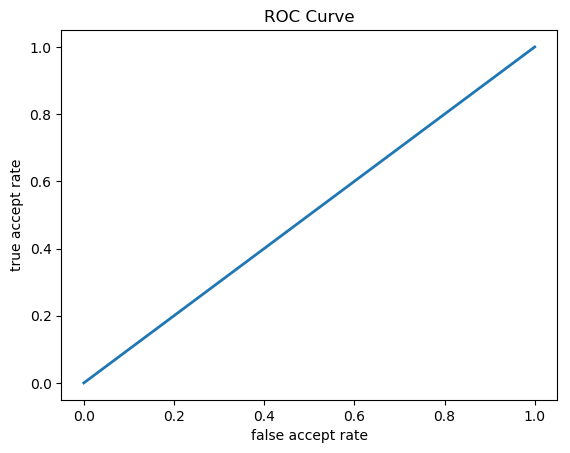
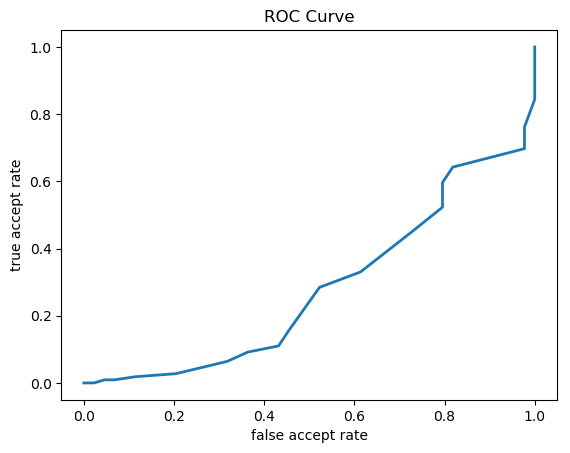
It works, had to make lots of changes though..

diff --git a/main.py b/main.py
@@ -5,7 +5,6 @@ import os
 import sys
 import numpy as np
 import pandas as pd
-import matplotlib.pyplot as plt
 from sklearn.model_selection import KFold
 from sklearn.preprocessing import MinMaxScaler
 from sklearn.neighbors import KNeighborsClassifier
@@ -13,7 +12,7 @@ from performance import perf_main
 
 ## Import the 5 feature selection algorithms
 import varience_threshold as vt
-import pca_features as pca
+import tree_selection_features as tsf
 import recursive_features as rf
 import chi_square as cs
 import information_gain as ig
@@ -22,44 +21,62 @@ import information_gain as ig
 import outlier_detection_system as ods
 
 ## GLobal Variables
+debug = 1                                                       #### SET TO 0 WHEN NOT DEBUGGING
 train_percent = .75
 dataset_path = "dataset1/data/"
 k_folds = 5
-k_neighbors = 25
+k_neighbors = 30
+headers = ['Hold .', 'Hold t', 'Hold i', 'Hold e', 'Hold Shift',
+'Hold 5', 'Hold Shift.1', 'Hold Caps', 'Hold r', 'Hold o', 'Hold a',
+'Hold n', 'Hold l', 'Hold Enter', 'DD ..t', 'DD t.i', 'DD i.e',
+'DD e.Shift', 'DD Shift.5', 'DD 5.Shift', 'DD Shift.Caps', 'DD Caps.r',
+'DD r.o', 'DD o.a', 'DD a.n', 'DD n.l', 'DD l.Enter', 'UD ..t',
+'UD t.i', 'UD i.e', 'UD e.Shift', 'UD Shift.5', 'UD 5.Shift',
+'UD Shift.Caps', 'UD Caps.r', 'UD r.o', 'UD o.a', 'UD a.n', 'UD n.l',
+'UD l.Enter', 'Pressure .', 'Pressure t', 'Pressure i', 'Pressure e',
+'Pressure Shift', 'Pressure 5', 'Pressure Shift.1', 'Pressure Caps',
+'Pressure r', 'Pressure o', 'Pressure a', 'Pressure n', 'Pressure l',
+'Pressure Enter', 'Size .', 'Size t', 'Size i', 'Size e', 'Size Shift',
+'Size 5', 'Size Shift.1', 'Size Caps', 'Size r', 'Size o', 'Size a',
+'Size n', 'Size l', 'Size Enter', 'AvH', 'AvP', 'AvA']
 
 ## Load the dataset
-raw_data = []
+raw_data = pd.DataFrame(columns=headers, data=[])
 raw_data_ids = []
 ids = 0
+temp_list = []
 files = os.listdir(dataset_path)
 for f in files:
-    temp = pd.read_csv(dataset_path + f, header=None)
-    raw_data.append(temp)
+    temp = pd.read_csv(dataset_path + f, header=None, names=headers)
+    temp_list.append(temp)
     raw_data_ids.extend([ids]*len(temp.index))    
     ids += 1
-    if ids == 3:                                            #### REMOVE THIS WHEN NOT DEBUGGING
-        break                                               #### REMOVE THIS WHEN NOT DEBUGGING
-raw_data = pd.concat(raw_data, axis=0).values
+    if debug == 1 and ids == 3:
+        break
+raw_data = pd.concat(temp_list)
+raw_data = raw_data.astype(np.float64)
 raw_data_ids = np.array(raw_data_ids)
 print("Total number of raw rows: ", len(raw_data))
 
 ## Perform feature selection
 varience_threshold_features = vt.get_features(raw_data, raw_data_ids)
-# pca_threshold_features = pca.get_features(raw_data, raw_data_ids)                             #### TO BE DONE
-recusive_features = rf.get_features(raw_data, raw_data_ids)
+tree_selection_features = tsf.get_features(raw_data, raw_data_ids, debug=0)
+recusive_features = rf.get_features(raw_data, raw_data_ids, debug=0)
 chi_square_features = cs.get_features(raw_data, raw_data_ids)
 information_gain_features = ig.get_features(raw_data, raw_data_ids)
 
 ## Take the intersection of the features
 features = set(chi_square_features).intersection(recusive_features)
 features = features.intersection(varience_threshold_features)
-# features = features.intersection(pca_features)                                         #### TO BE DONE
+features = features.intersection(tree_selection_features)
 features = features.intersection(information_gain_features)
 
 ## Remove the unused features from raw_data
-for i in reversed(range(len(raw_data[0]))):
+for i in reversed(range(len(raw_data.columns))):
     if i not in features:
-        raw_data= np.delete(raw_data, i, 1)
+        col = raw_data.columns[i]
+        raw_data = raw_data.drop(columns=col, axis=1)
+print("Remaining number post intersection: ", len(raw_data.columns), " columns")
     
 ## Perform cross validation
 kf = KFold(n_splits=k_folds, shuffle=True)
@@ -75,7 +92,7 @@ for train, test in kf.split(raw_data, raw_data_ids):
 
     # Get current folds data
     accuracy = 0.
-    template = raw_data[train, :]
+    template = raw_data.values[train, :]
     template_ids = raw_data_ids[train]
 
     # Remove outliers from training data
@@ -91,30 +108,32 @@ for train, test in kf.split(raw_data, raw_data_ids):
     for test_index in range(len(test)):
 
         # Get and Scale query
-        query = raw_data[test[test_index], :].reshape(1, -1)
+        query = raw_data.values[test[test_index], :]
+        query = query.reshape(len(query), 1)
         query = scaler.fit_transform(query)
+        query = query.reshape(1, -1)
         query_label = raw_data_ids[test[test_index]]
 
-        # Predict and record
+        # Predict
         prediction = clf.predict(query)
         confidence = clf.predict_proba(query)
 
-        if prediction == query_label:
+        # Record
+        if prediction[0] == query_label:
             accuracy += 1
-            genuine_scores.append(np.mean(confidence))
+            genuine_scores.append(confidence[0][prediction[0]])
         else:
-            impostor_scores.append(np.mean(confidence))
+            impostor_scores.append(confidence[0][prediction[0]])
 
     # DEBUG
-    print('Fold accuracy: ' + str(accuracy / len(test)))        
+    if debug == 1:
+        print('Fold accuracy: ' + str(accuracy / len(test))) 
+            
+    # record accuracy over fold
     total_accuracy += accuracy / len(test)
 
 # Plot results
 total_accuracy = total_accuracy / k_folds
-print(genuine_scores[0])
-print(total_accuracy)
-print(genuine_scores)
-print(impostor_scores)
 
 # Record/Output Data
 # Courtesy of Dr. Tempest Neil

diff --git a/information_gain.py b/information_gain.py
@@ -5,29 +5,28 @@ from sklearn.feature_extraction.text import CountVectorizer
 from sklearn.feature_selection import mutual_info_classif
 
 # The function which will be called
-def get_features(raw_data, raw_ids, average_threshold=0.5):
+def get_features(raw_data, raw_ids):
 
     """
     Calculate the information gain of a dataset. This function takes three parameters:
-    1. data = The dataset for whose feature the IG should be calculated
-    2. split_attribute_name = the name of the feature for which the information gain should be calculated
-    3. target_name = the name of the target feature. The default for this example is "class"
+    Computes the avg mutual information and uses it as threshold for eliminating
+    features
     """
-    df = pd.DataFrame(raw_data)
-    df["person"] = raw_ids
 
+    # Create a classifier for the data
+    m_info = mutual_info_classif(raw_data, raw_ids)
+
+    # Get the average of the mutual information of each column
+    avg = np.mean(m_info)
+
+    # Set aside correct columns
     return_columns = []
-    cv = CountVectorizer(max_df=1, min_df=1,
-                         max_features=72, stop_words='english')
-    for column in df:
-        if column != "person":
-            X = df[column].astype(str)
-            Y = df["person"].astype(str)
-            X_vec = cv.fit_transform(X)
-            ig = mutual_info_classif(X_vec, Y, discrete_features=True)
-            avg = sum(ig)
-            if avg > average_threshold and column != "person":
-                return_columns.append(column)
+    index = 0
+    for feature in m_info:
+        if feature >= avg:
+            return_columns.append(index)
+        index += 1
+    
 
-    print("INFORMATION GAIN: Suggesting: ", len(return_columns), " columns out of ", (len(raw_data[0])))
+    print("INFORMATION GAIN: Suggesting: ", len(return_columns), " columns out of ", (len(raw_data.columns)))
     return return_columns

diff --git a/tree_selection_features.py b/tree_selection_features.py
@@ -1,0 +1,44 @@
+# File for the Tree Based feature selection algorithm
+from sklearn.ensemble import ExtraTreesClassifier
+from sklearn.feature_selection import SelectFromModel
+import matplotlib.pyplot as plt
+import numpy as np
+
+# The function that will be called
+def get_features(raw_data, raw_data_ids, debug=1):
+    '''
+    Uses tree selection to determine feature importance
+    then used the avg of the importance to remove unneeded features
+    '''
+
+    # Create a tree classifier
+    clf = ExtraTreesClassifier(n_estimators=100)
+    clf.fit(raw_data, raw_data_ids)
+
+    # Calculate feature importance
+    model = SelectFromModel(clf, prefit=True)
+
+    # Set aside correct columns
+    return_columns = []
+    index = 0
+    for feature in model.get_support():
+    	if feature:
+    		return_columns.append(index)
+    	index += 1
+
+    # DEBUG
+    if debug == 1 :
+    	importances = clf.feature_importances_
+    	std = np.std([tree.feature_importances_ for tree in clf.estimators_], axis=0)
+    	indices = np.argsort(importances)[::-1]
+    	plt.figure(figsize=(16,8))
+    	plt.title("Feature importances")
+    	plt.bar(range(raw_data.shape[1]), importances[indices], color="r", yerr=std[indices], align="center")
+    	plt.xticks(range(raw_data.shape[1]), indices)
+    	plt.xlim([-1, raw_data.shape[1]])
+    	plt.savefig('./RESULTS/IMAGES/tree_feature_importance.png', bbox_inches='tight')
+    	plt.show()
+
+    # return
+    print("TREE BASED SELECTION: Suggesting: ", len(return_columns), " columns out of ", (len(raw_data.columns)))
+    return return_columns

diff --git a/varience_threshold.py b/varience_threshold.py
@@ -1,29 +1,25 @@
 # File for the variance threshold feature selection algorithm
 from sklearn.feature_selection import VarianceThreshold
-from sklearn.feature_selection import RFECV
-from sklearn.model_selection import StratifiedKFold
-from sklearn.svm import SVC
-import matplotlib.pyplot as plt
-import numpy as np
 
 # The function which will be called
-
-
-def get_features(raw_data, raw_data_ids):
+def get_features(raw_data, raw_data_ids, threshold=0.10):
+    '''
+    Perform feature selection using variance threshold
+    Defaults to 0.0, e.g. only remove features with the same value in all samples
+    '''
     
     #Performs feature selection by removing features with low variance Returns the ideal columns of size the number
-    #pf features
-    
-    sel = VarianceThreshold(threshold=(.8 * (1 - .8)))
-    sel.fit(raw_data, raw_data_ids) # Defaults to 0.0, e.g. only remove features with the same value in all samples
+    sel = VarianceThreshold(threshold=(threshold * (1 - threshold)))
+    sel.fit(raw_data)
+
      # Set aside correct columns
     return_columns = []
     index = 0
-    for feature in sel.support_:
+    for feature in sel.get_support():
         if feature:
             return_columns.append(index)
         index += 1
 
     # return
-    print("VERIENCE THESHOLD: Suggesting: ", sel.n_features_, " columns out of ", (len(raw_data[0])))
+    print("VERIENCE THESHOLD: Suggesting: ", len(return_columns), " columns out of ", len(raw_data.columns))
     return return_columns

diff --git a/recursive_features.py b/recursive_features.py
@@ -6,7 +6,7 @@ import matplotlib.pyplot as plt
 import numpy as np
 
 # The function which will be called
-def get_features(raw_data, raw_data_ids):
+def get_features(raw_data, raw_data_ids, debug=1):
     '''
     Performs feature selection using recursive feature
     elimination. Returns the ideal columns of size the number
@@ -26,10 +26,19 @@ def get_features(raw_data, raw_data_ids):
     return_columns = []
     index = 0
     for feature in eliminator.support_:
-    	if feature:
-    		return_columns.append(index)
-    	index += 1
+        if feature:
+            return_columns.append(index)
+        index += 1
+
+    # DEBUG
+    if debug == 1:
+        plt.figure()
+        plt.xlabel("Number of features selected")
+        plt.ylabel("Cross validation score (nb of correct classifications)")
+        plt.plot(range(1, len(eliminator.grid_scores_) + 1), eliminator.grid_scores_)
+        plt.savefig('./RESULTS/IMAGES/recursive_feature_importance.png', bbox_inches='tight')
+        plt.show()
 
     # return
-    print("RECUSRIVE FEATURE ELIMINATION: Suggesting: ", eliminator.n_features_, " columns out of ", (len(raw_data[0]))) 
+    print("RECUSRIVE FEATURE ELIMINATION: Suggesting: ", eliminator.n_features_, " columns out of ", (len(raw_data.columns))) 
     return return_columns

diff --git a/chi_square.py b/chi_square.py
@@ -3,7 +3,7 @@ import pandas as pd
 from scipy.stats import chi2_contingency
 
 # The function which will be called
-def get_features(raw_data, raw_ids, alpha=0.33):
+def get_features(raw_data, raw_ids, alpha=0.15):
 	'''
 	This function will take in the raw data and the correct label for each row
 	and compute which columns are not needed in predicting the correct person.
@@ -16,6 +16,7 @@ def get_features(raw_data, raw_ids, alpha=0.33):
 
 	# For each column in the data frame
 	return_columns = []
+	index = 0
 	for column in df:
 		# Calculate statistics
 		X = df[column].astype(str)
@@ -25,7 +26,10 @@ def get_features(raw_data, raw_ids, alpha=0.33):
 
 		# Decide to keep column
 		if p < alpha and column != "person":
-			return_columns.append(column)
+			return_columns.append(index)
+
+		# update index
+		index += 1
 
 	# return
 	print("CHI SQUARED: Suggesting: ", len(return_columns), " columns out of ", (len(df.columns) - 1))

diff --git a/README.md b/README.md
@@ -3,9 +3,11 @@ Collaborators - Subhrajyoti Pradhan
 				Ryan Arjun
 
 ## What needs to be Done? and its difficulty
-1. Modify the information gain function to work like chi_squared.get_features()		[????]
-2. Please test the implement variance threshold feature selection 									[EASY]
-3. Implement pca feature selection													[MED]
-4. Figure out why our accuracy is terribly wrong?									[????]
-5. Save performance to file and charts to pictures									[EASY]
-6. Make validation.py, when everything else is fixed								[EASY]
+1. Save performance to file and charts to pictures									[EASY]
+	- plot feature importance for tree selection									[✔]
+	- plot feature importance for recursive selection								[✔]
+	- plot feature importance for variance threshold								[EASY]
+	- plot feature importance for information gain									[EASY]
+	- plot feature importance for chi squared										[EASY]
+	- plot anything else???															[????]
+2. Make validation.py, when everything else is fixed								[EASY]
